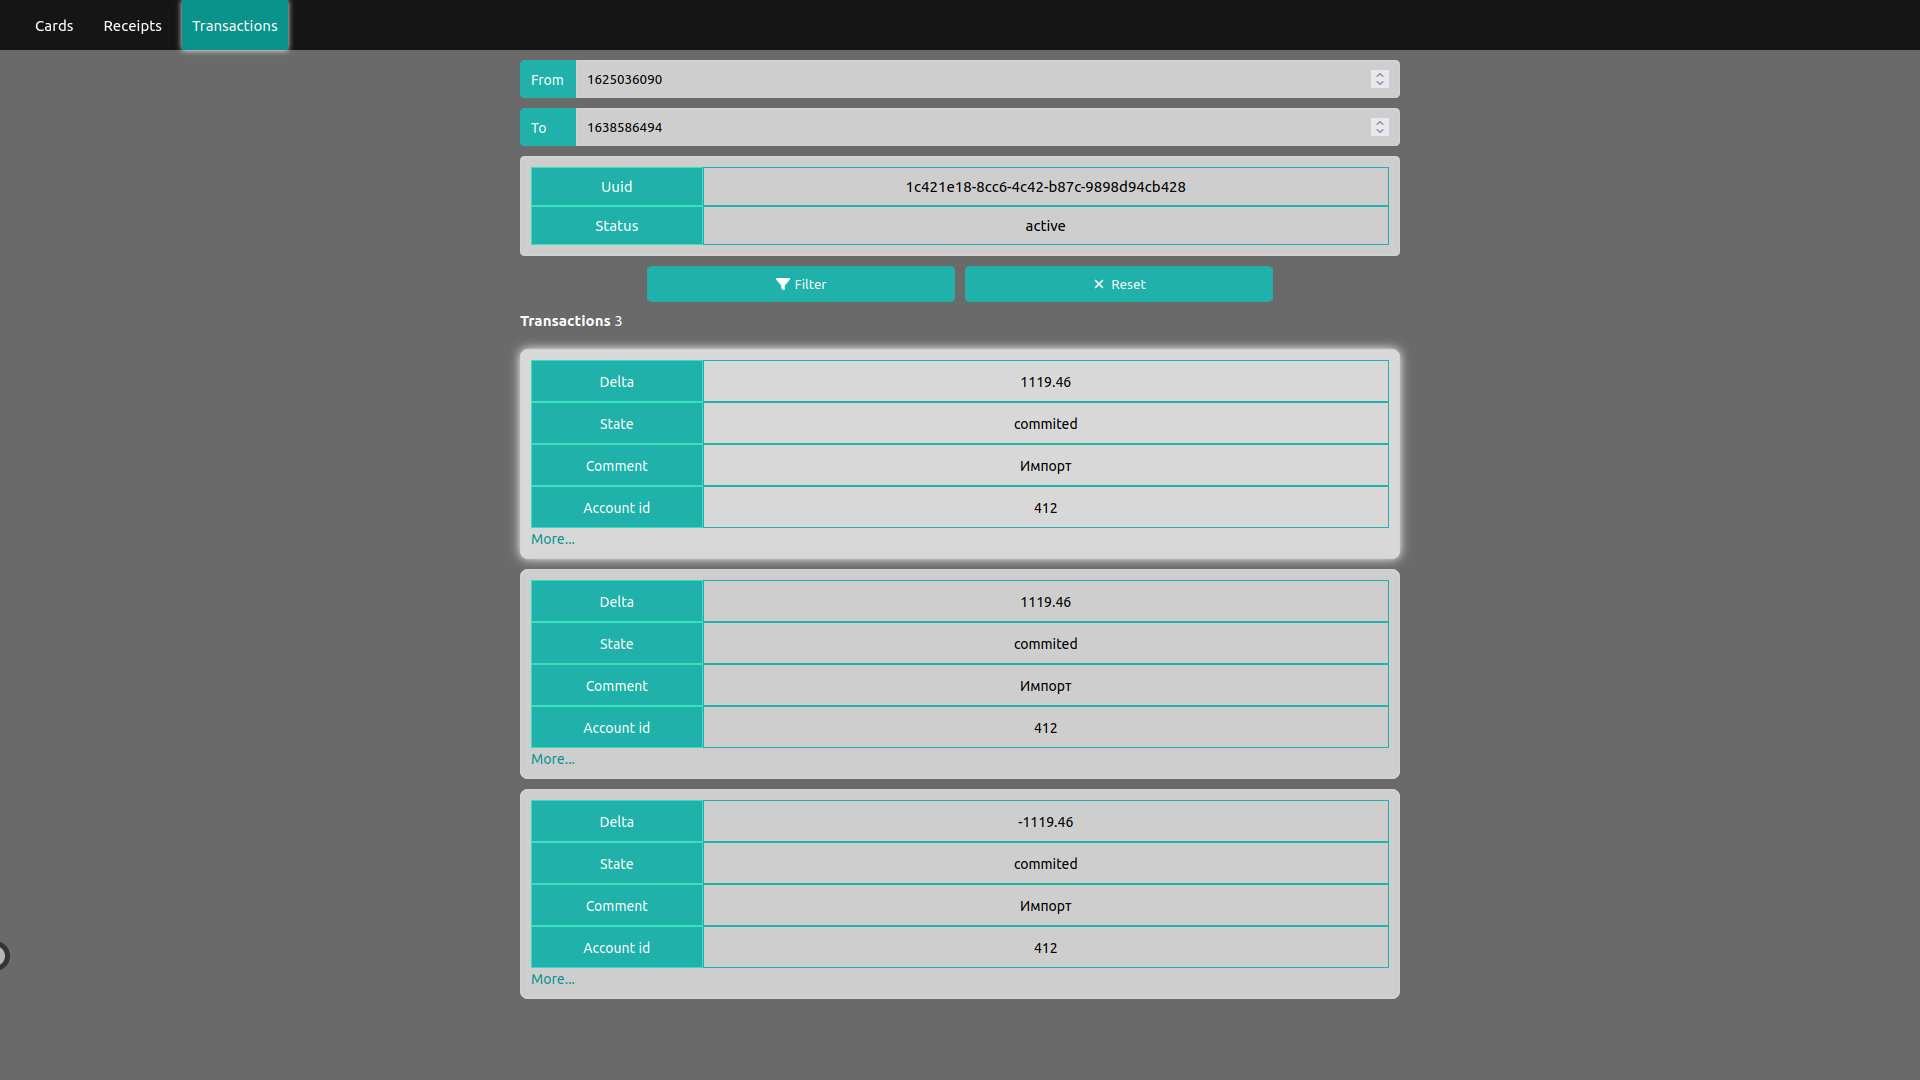
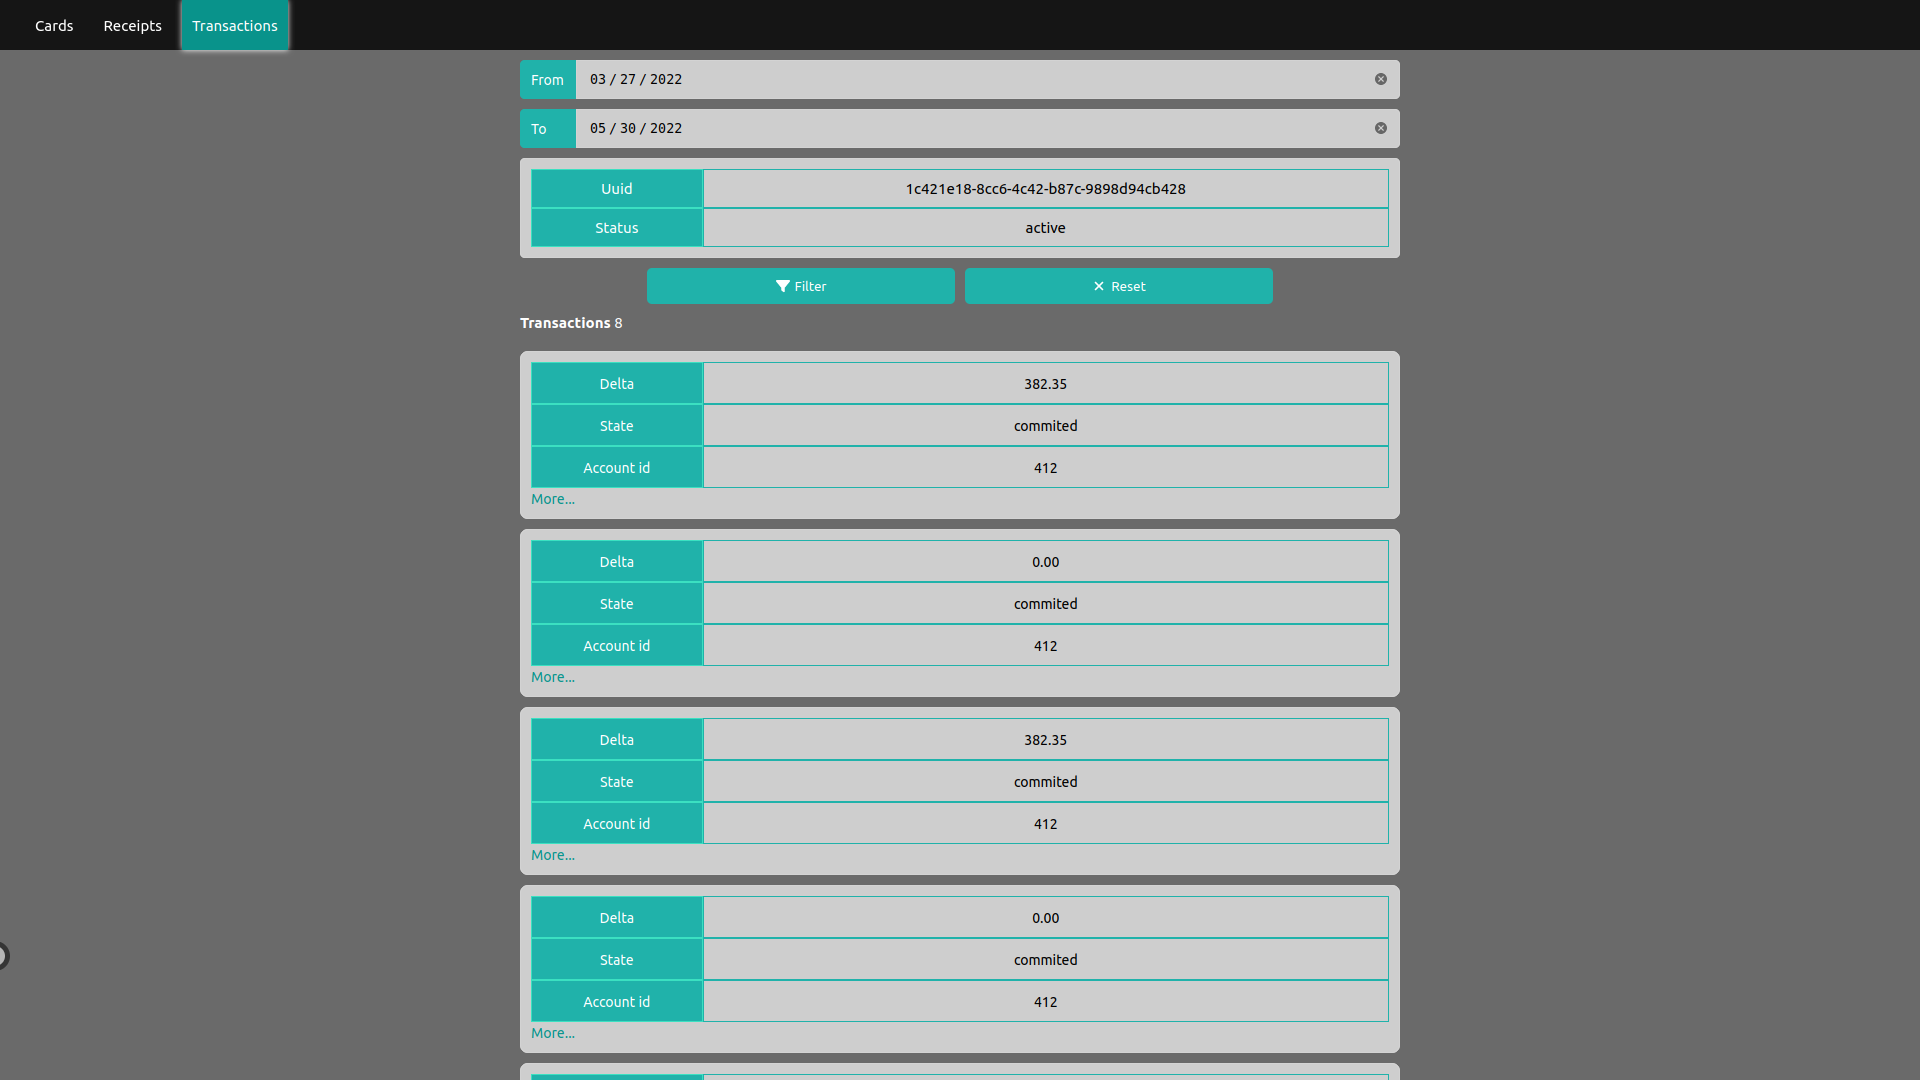
update

Changed region(s): [[0.25, 0.275, 0.75, 1.0], [0.2812, 0.0611, 0.7188, 0.275], [0.6875, 0.0611, 0.7188, 0.0917]]

diff --git a/src/components/filter.js b/src/components/filter.js
@@ -1,6 +1,7 @@
-import { useState } from 'react';
+import {  UPDATE_TRANSACTIONS, UPDATE_CARD, UPDATE_START_PERIOD, UPDATE_END_PERIOD, UPDATE_RECEIPTS } from '../redux/actions';
+import { setLocalStorage, getLocalStorage } from './common';
 import { useDispatch, useSelector } from 'react-redux';
-import {  UPDATE_TRANSACTIONS, UPDATE_CARD, UPDATE_FROM, UPDATE_TO, UPDATE_FLAG, UPDATE_RECEIPTS } from '../redux/actions';
+import { useState } from 'react';
 import '../styles/filter.scss';
 import SVG from './svg';
 
@@ -9,40 +10,76 @@ export default function Filter(props){
     const cards  = useSelector(state => state.cards);
     const cardGlobally  = useSelector(state => state.card);
     const [cardLocally, setCardLocally] = useState(cardGlobally);
-    const fromGlobally = useSelector(state => state.from);
-    const toGlobally = useSelector(state => state.to);
-    const [fromLocally, setFromLocally] = useState(fromGlobally)
-    const [toLocally, setToLocally] = useState(toGlobally);
+    const startPeriodGlobally = useSelector(state => state.startPeriod);
+    const endPeriodGlobally = useSelector(state => state.endPeriod);
+    const [startPeriodLocally, setStartPeriodLocally] = useState(getLocalStorage({key:'start'})?getLocalStorage({key:'start'}):startPeriodGlobally)
+    const [endPeriodLocally, setEndPeriodLocally] = useState(getLocalStorage({key:'end'})?getLocalStorage({key:'end'}):endPeriodGlobally);
 
     const receipts = useSelector(state => state.receipts);
     const transactions = useSelector(state => state.transactions);
     const dispatch = useDispatch();
  
+    const convertToUnixTimestamp = (value)=> {
+        const date = new Date(value);
+        const unixTimestamp = Math.floor(date.getTime() / 1000);
+        return unixTimestamp;
+    }
     const handleTransactions = ()=> {
-            dispatch(UPDATE_FROM(fromLocally));
-            dispatch(UPDATE_TO(toLocally));
-            dispatch(UPDATE_CARD(cardLocally));
-            dispatch(UPDATE_FLAG());
+        const startPeriodUnixTimestamp = convertToUnixTimestamp(startPeriodLocally);
+        const endPeriodUnixTimestamp = convertToUnixTimestamp(endPeriodLocally);
+        dispatch(UPDATE_START_PERIOD(startPeriodUnixTimestamp));
+        dispatch(UPDATE_END_PERIOD(endPeriodUnixTimestamp));
+        dispatch(UPDATE_CARD(cardLocally));
         }
     const resetFilter = ()=> {
             dispatch(UPDATE_TRANSACTIONS([]));
             dispatch(UPDATE_RECEIPTS([]));
-            dispatch(UPDATE_FROM('0'));
-            dispatch(UPDATE_TO('10000000000'));
-            setToLocally('10000000000');
-            setFromLocally('0');
+            dispatch(UPDATE_START_PERIOD(''));
+            dispatch(UPDATE_END_PERIOD(''));
+            setEndPeriodLocally('');
+            setStartPeriodLocally('');
             dispatch(UPDATE_CARD({}));
             setCardLocally({});
             setSelectedClass("hidden");
+            setLocalStorage({key:'reset', value:null})
+    }
+    const updatePeriodValues = (event)=> {
+        //it will validate the input values, it will update state only when input values are valid
+        const elementId = event.target.id;
+        const value = event.target.value;
+        const unixTimestamp = convertToUnixTimestamp(value);
+        const todayUnixTimestamp = convertToUnixTimestamp(new Date());
+        if(elementId.includes('to-input')){
+            if(unixTimestamp <= todayUnixTimestamp){
+                    setEndPeriodLocally(value);
+                    setLocalStorage({key:'to', value:value});
+                }
+                if(convertToUnixTimestamp(startPeriodLocally) > unixTimestamp){
+                    setLocalStorage({key:'to', value:value});
+                    setLocalStorage({key:'from', value:value});
+                    setStartPeriodLocally(value)
+                }
+            }else if(elementId.includes('from-input')) {
+                if(unixTimestamp <= convertToUnixTimestamp(endPeriodLocally) && unixTimestamp <= todayUnixTimestamp){
+                    setLocalStorage({key:'from', value:value});
+                    setStartPeriodLocally(value);
+                }else if(startPeriodLocally.length === 0 && endPeriodLocally.length === 0 && unixTimestamp <= todayUnixTimestamp){
+                    setLocalStorage({key:'from', value:value});
+                    setStartPeriodLocally(value);
+                }else if(endPeriodLocally.length === 0 && unixTimestamp <= todayUnixTimestamp){
+                    setLocalStorage({key:'from', value:value});
+                    setStartPeriodLocally(value);
+                }
+        }
     }
     return (<div className='filter-container'>
                 <label htmlFor='from-input' title='Start of selection period'>
                     <span>From</span>
-                    <input type='number' className='input'  id='from-input' value={fromLocally} onInput={(event)=> setFromLocally(event.target.value)} />
+                    <input type='date' className='input'  id='from-input' value={startPeriodLocally} onInput={(event)=> updatePeriodValues(event)} />
                 </label>
                 <label htmlFor='to-input' title='End of selection period'>
                     <span>To</span>
-                    <input type='number' className='input' id='to-input' value={toLocally} onInput={(event)=> setToLocally(event.target.value)} />
+                    <input type='date' className='input' id='to-input' value={endPeriodLocally} onInput={(event)=> updatePeriodValues(event)} />
                 </label>
                 <div className='cards-selecter-container' title='Select a card or leave it blank to show all'>
                 <div className='selected-card' onClick={()=> {selectedClass==='hidden'?setSelectedClass("show-f"):setSelectedClass('hidden')}}>

diff --git a/src/components/modals.js b/src/components/modals.js
@@ -47,7 +47,7 @@ export default function Modal() {
                                 {selectedCard.birthdate?<><div className='birthday'><span className='text'>Birthdate</span> <span className='text-value'>{selectedCard.birthdate}</span></div></>:null}
                                 {selectedCard.sales?<><div className='sales'><span className='text'>Sales</span> <span className='text-value'>{selectedCard.sales}</span></div></>:null}
                                 {selectedCard.balance?<><div className='balance'><span className='text'>Balance</span> <span className='text-value'>{selectedCard.balance}</span></div></>:null}
-                                {selectedCard.created_date?<><div className='created_date'><span className='text'>Created at</span><span className='text-value'> {getFullDate(selectedCard.created_date)}</span></div></>:null}                          
+                                {selectedCard.created_date?<><div className='created_date'><span className='text'>Created at</span><span className='text-value'> {getFullDate({timestamp:selectedCard.created_date, type:'created_at'})}</span></div></>:null}                          
                                 {selectedCard.type_uuid?<><div className='type_uuid'><span className='text'>Type uuid</span><span className='text-value'> {selectedCard.type_uuid}</span></div></>:null}
                                 {selectedCard.uuid?<><div className='card_uuid'><span className='text'>Card uuid</span><span className='text-value'> {selectedCard.uuid}</span></div></>:null}
                                 {selectedCard.account_id?<><div className='account_id'><span className='text'>Account id</span><span className='text-value'> {selectedCard.account_id}</span></div></>:null}
@@ -59,7 +59,7 @@ export default function Modal() {
                                 {selectedTransaction.delta?<><div className='delta'><span className='text'>Delta</span> <span className='text-value'>{selectedTransaction.delta}</span></div></>:null}
                                 {selectedTransaction.state?<><div className='state'><span className='text'>State</span><span className='text-value'> {selectedTransaction.state}</span></div></>:null}
                                 {selectedTransaction.comment?<><div className='comment'><span className='text'>Comment</span><span className='text-value'> {selectedTransaction.comment}</span></div></>:null}
-                                {selectedTransaction.period?<><div className='period'><span className='text'>Period</span> <span className='text-value'>{selectedTransaction.period}</span></div></>:null}
+                                {selectedTransaction.period?<><div className='period'><span className='text'>Period</span> <span className='text-value'>{getFullDate({timestamp:selectedTransaction.period, type:'period'})}</span></div></>:null}
                                 {selectedTransaction.period_active?<><div className='period_active'><span className='text'>Period active</span> <span className='text-value'>{selectedTransaction.period_active}</span></div></>:null}
                                 {selectedTransaction.account_id?<><div className='account_id'><span className='text'>Account id</span><span className='text-value'> {selectedTransaction.account_id}</span></div></>:null}
                                 {selectedTransaction.uuid?<><div className='uuid'><span className='text'>Transaction Uuid</span><span className='text-value'>{selectedTransaction.uuid}</span></div></>:null}
@@ -75,7 +75,7 @@ export default function Modal() {
                                 {selectedReceipt.bonus?<><div className='bonus'><span className='text'>Bonus</span> <span className='text-value'>{selectedReceipt.bonus}</span></div></>:null}
                                 {selectedReceipt.payment?<><div className='payment'><span className='text'>Payment</span> <span className='text-value'>{selectedReceipt.payment}</span></div></>:null}
                                 {selectedReceipt.type?<><div className='card_uuid'><span className='text'>Type</span> <span className='text-value'>{selectedReceipt.type}</span></div></>:null}
-                                {selectedReceipt.period?<><div className='period'><span className='text'>Period</span> <span className='text-value'>{selectedReceipt.period}</span></div></>:null}
+                                {selectedReceipt.period?<><div className='period'><span className='text'>Period</span> <span className='text-value'>{getFullDate({timestamp:selectedReceipt.period, type:'period'})}</span></div></>:null}
                                 {selectedReceipt.total?<><div className='total'><span className='text'>Total</span> <span className='text-value'>{selectedReceipt.total}</span></div></>:null}
                                 {selectedReceipt.totalWithDiscount?<><div className='totalWithDiscount'><span className='text'>Total with discount</span> <span className='text-value'>{selectedReceipt.totalWithDiscount}</span></div></>:null}
                                 {selectedReceipt.uuid?<><div className='uuid'><span className='text'>Receipt uuid</span><span className='text-value'>{selectedReceipt.uuid}</span></div></>:null}

diff --git a/src/components/common.js b/src/components/common.js
@@ -61,16 +61,45 @@ window.onload = ()=> {
         updateMode(localStorage.getItem('darkMode'));
     }
 }
-export const getFullDate = (date_) => {
+export const getFullDate = ({timestamp, type='created_at'}) => {
     const months = ['January', 'February', 'March', 'April', 'May', 'June', 'July', 'August', 'September', 'October', 'November', 'Decemberry'];
-    const date = new Date(parseInt(date_));
-    // const minutes = date.getMinutes();
-    // const hours = date.getHours();
+    // const date = (type='created_at')?new Date(parseInt(timestamp * 1000)):new Date() - new Date(parseInt(timestamp * 1000));
+    const date = new Date(parseInt(timestamp * 1000));
+    const minutes = date.getMinutes();
+    const hours = date.getHours();
     const day = date.getDate();
     const month = date.getMonth();
     const year = date.getFullYear();
     const DISPLAY = (item)=> {return ((item < 10)?("0" + item.toString()): item.toString());  }
-    return  months[month] + ' '+  DISPLAY(day).toString() + ', ' + year.toString(); //  + ' at '+ DISPLAY(hours) + ':' + DISPLAY(minutes);
+    return  months[month] + ' '+  DISPLAY(day).toString() + ', ' + year.toString() + ' at '+ DISPLAY(hours) + ':' + DISPLAY(minutes);
 }
+const endPeriodName = 'periods-to-value-lms';
+const startPeriodName = 'periods-from-value-lms';
 
+export const setLocalStorage = ({key, value})=> {
+    
+    if(key==='to')localStorage.setItem(endPeriodName, value);
+    else if(key === 'from'){
+        localStorage.setItem(startPeriodName, value);
+    }else if(key === 'reset'){
+        localStorage.removeItem(startPeriodName);
+        localStorage.removeItem(endPeriodName);
+    }
+}
+export const getLocalStorage = ({key})=> {
+    if(key==='start'){
+        if(localStorage.getItem(startPeriodName)){
+            const startPeriod = localStorage.getItem(startPeriodName);
+            return startPeriod;
+        }
+        return false;
+    }
+    else if(key==='end'){
+        if(localStorage.getItem(startPeriodName)){
+            const endPeriod = localStorage.getItem(endPeriodName);
+            return endPeriod;
+        }
+        return false;
+    }
+}
 window.addEventListener('scroll', ()=> handleScrollAction(true))

diff --git a/src/components/fetch-data.js b/src/components/fetch-data.js
@@ -5,8 +5,8 @@ import { SHOW_MODAL, UPDATE_CARDS, UPDATE_ERRORS, UPDATE_RECEIPTS, UPDATE_TRANSA
 const axios = require('axios');
 
 export default function useFetch(props) {
-    const fromState  = useSelector(state => state.from);
-    const toState = useSelector(state => state.to); 
+    const startPeriodState  = useSelector(state => state.startPeriod);
+    const endPeriodState = useSelector(state => state.endPeriod); 
     const card = useSelector(state => state.card);
     const flag = useSelector(state => state.flag);
     const cards = useSelector(state => state.cards);
@@ -20,11 +20,11 @@ export default function useFetch(props) {
             let url = `https://bonus-test.evoapp.ru/api/3rdparty/${props.name}`;
             
             if(props.name === 'transaction' || props.name === 'receipt'){
-                const to = toState?'&to=' + toState:'';
-                const from = fromState?'from=' + fromState:'';
-                const card_uuid = card.uuid?`&card_uuid=${card.uuid}`:'';
-                const questionMark = (to || from || card_uuid)?'?':'';
-                url = `https://bonus-test.evoapp.ru/api/3rdparty/${props.name}${questionMark}${from}${to}${card_uuid}`;
+                const startPeriod = startPeriodState?'from=' + startPeriodState:'';
+                const endPeriod = endPeriodState?'&to=' + endPeriodState:'';
+                const card_uuid = card.uuid?((props.name==='receipt')?`&cardUuid=${card.uuid}`:`&card_uuid=${card.uuid}`):'';
+                const questionMark = (startPeriod || endPeriod || card_uuid)?'?':'';
+                url = `https://bonus-test.evoapp.ru/api/3rdparty/${props.name}${questionMark}${startPeriod}${endPeriod}${card_uuid}`;
             }
             
             axios(url, config)
@@ -65,7 +65,7 @@ export default function useFetch(props) {
             setLoading(true);
             fetchData(true);
         }
-    }, [flag, props.name, cards, fromState, toState, dispatch, card]);
+    }, [flag, props.name, cards, startPeriodState, endPeriodState, dispatch, card]);
     
   return { loading }
 }

diff --git a/src/redux/reducers/index.js b/src/redux/reducers/index.js
@@ -60,26 +60,18 @@ const errorsReducer = (state = {state:false, status:200, message:null}, action)=
     }
 }
 
-const fromReducer = (state = '0', action)=> {
+const startPeriodReducer = (state = '', action)=> {
     switch(action.type){
-        case 'from/update':
+        case 'startPeriod/update':
             return action.payload;
         default:
             return state;
     }
 }
-const toReducer = (state = '10000000000', action)=> {
+const endPeriodReducer = (state = '', action)=> {
     switch(action.type){
-        case 'to/update':
+        case 'endPeriod/update':
             return action.payload;
-        default:
-            return state;
-    }
-}
-const flagReducer = (state = false, action)=> {
-    switch(action.type){
-        case 'flag/update':
-            return !state;
         default:
             return state;
     }
@@ -108,9 +100,8 @@ const Reducers = combineReducers({
     transactions:transactionsReducer,
     selected:selectedReducer,
     card:cardReducer,
-    flag:flagReducer,
-    to:toReducer,
-    from:fromReducer,
+    startPeriod:startPeriodReducer,
+    endPeriod:endPeriodReducer,
     pathname:pathnameReducer
 });
 

diff --git a/src/redux/actions/index.js b/src/redux/actions/index.js
@@ -48,22 +48,16 @@ export const UPDATE_CARD = (data=null)=> {
         payload:data
     }
 }
-
-export const UPDATE_FLAG = ()=> {
+export const UPDATE_START_PERIOD = (startPeriod=null)=> {
     return {
-        type:'flag/update',
+        type:'startPeriod/update',
+        payload:startPeriod
     }
 }
-export const UPDATE_FROM = (from=null)=> {
+export const UPDATE_END_PERIOD= (endPeriod=null)=> {
     return {
-        type:'from/update',
-        payload:from
-    }
-}
-export const UPDATE_TO = (to=null)=> {
-    return {
-        type:'to/update',
-        payload:to
+        type:'endPeriod/update',
+        payload:endPeriod
     }
 }
 

diff --git a/README.md b/README.md
@@ -28,5 +28,4 @@
 
 <img src='https://raw.githubusercontent.com/alamiriMd/loyalty-management-system/main/images/image7.png' style='width:100%; max-width:900px' />
 
-<img src='https://raw.githubusercontent.com/alamiriMd/loyalty-management-system/main/images/image8.png' style='width:100%; max-width:900px' />
 
